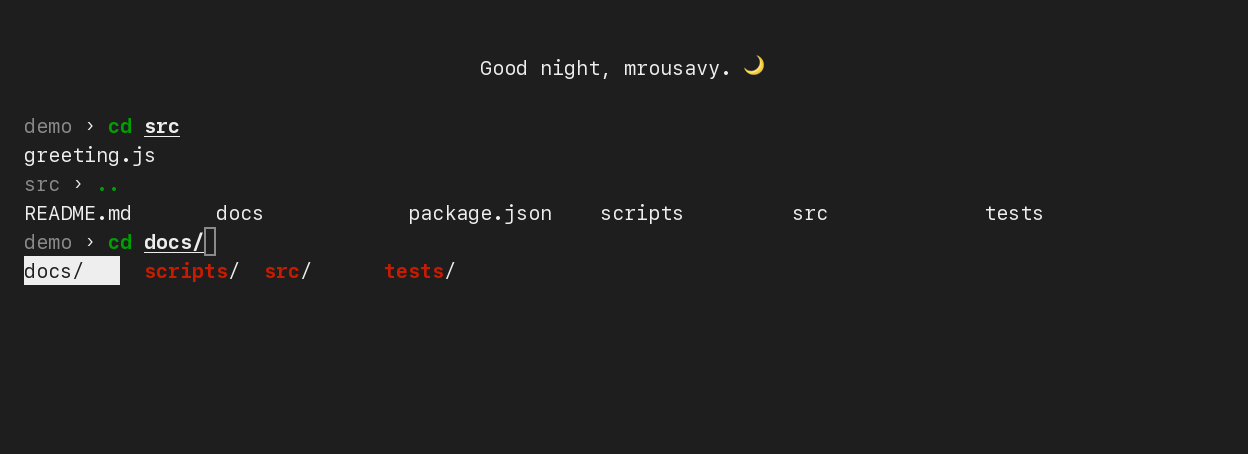
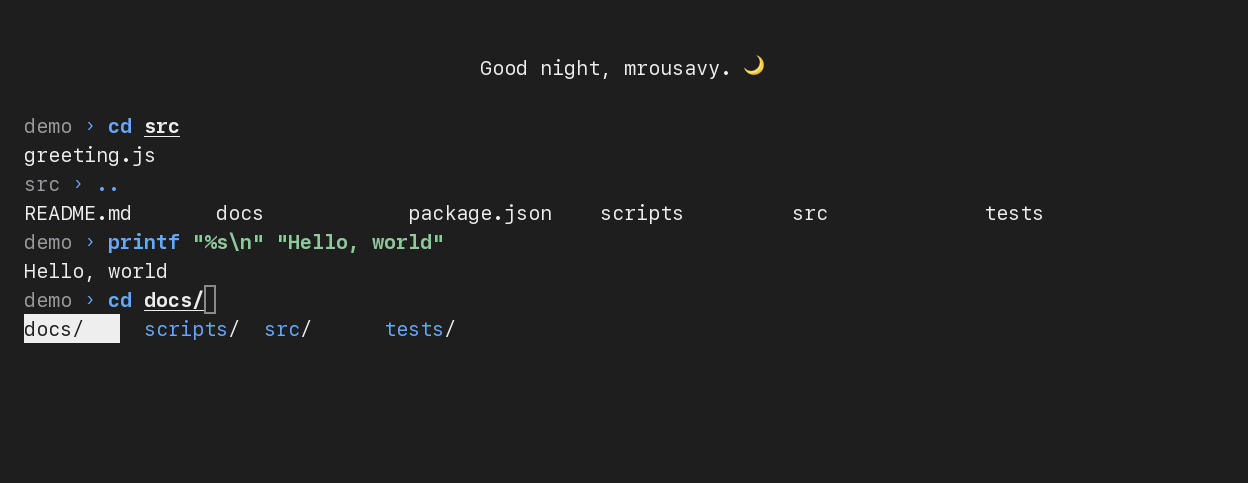
Add a minimal adaptive color palette for zsh

diff --git a/README.md b/README.md
@@ -10,9 +10,11 @@ project. These are terminal-output previews, not native macOS screenshots;
 font rendering can differ slightly. The Vim sidebar is narrowed and its help
 banner hidden with netrw's `I` key.
 
-**zsh — greeting, bold input, dim folder prompt, and highlighted completion**
+**zsh — minimal Apple-inspired palette, light and dark**
 
-![zsh with a centered greeting and a highlighted folder completion](docs/images/zsh.png)
+![zsh light palette with blue accents and highlighted folder completion](docs/images/zsh-light.png)
+
+![zsh dark palette with blue accents and highlighted folder completion](docs/images/zsh.png)
 
 **Vim — One Light**
 
@@ -57,7 +59,7 @@ if Apple's bundled Vim is older. The installer checks the required features.
 
 | Component | Configuration |
 | --- | --- |
-| zsh | Dim, adaptive folder prompt; bold input; centered time-of-day greeting; `ls` after changing directories; `..`, `...`, `....` aliases |
+| zsh | Minimal adaptive palette: gray folder, blue accents, green strings, red errors; bold input; centered greeting; `ls` after changing directories; `..`, `...`, `....` aliases |
 | Completion | Case-insensitive Tab matching, highlighted selection, arrow-key navigation |
 | zsh plugins | Homebrew's zsh-autosuggestions and zsh-syntax-highlighting |
 | Login banner | `.hushlogin` hides “Last login” |
@@ -66,6 +68,11 @@ if Apple's bundled Vim is older. The installer checks the required features.
 | Comments/browser | Vim's bundled `comment` package and netrw; no separate commentary or file-tree plugin |
 | Vim plugins | GitGutter, vim-lumen and vim-one, pinned in plugins.json |
 | Vim appearance | **One Light / One Dark**, selected automatically from macOS appearance |
+
+The shell's palette is defined directly in `.zshrc`, using the existing plugins.
+It checks macOS appearance before each new prompt and updates the colors when
+it changes. Press Enter after switching appearance to refresh an idle prompt.
+Terminal's adaptive profile controls the background and ordinary output colors.
 
 Vim-lumen compiles a small Swift helper inside its plugin directory. It runs as
 a child process while Vim is open and waits for appearance-change notifications.
